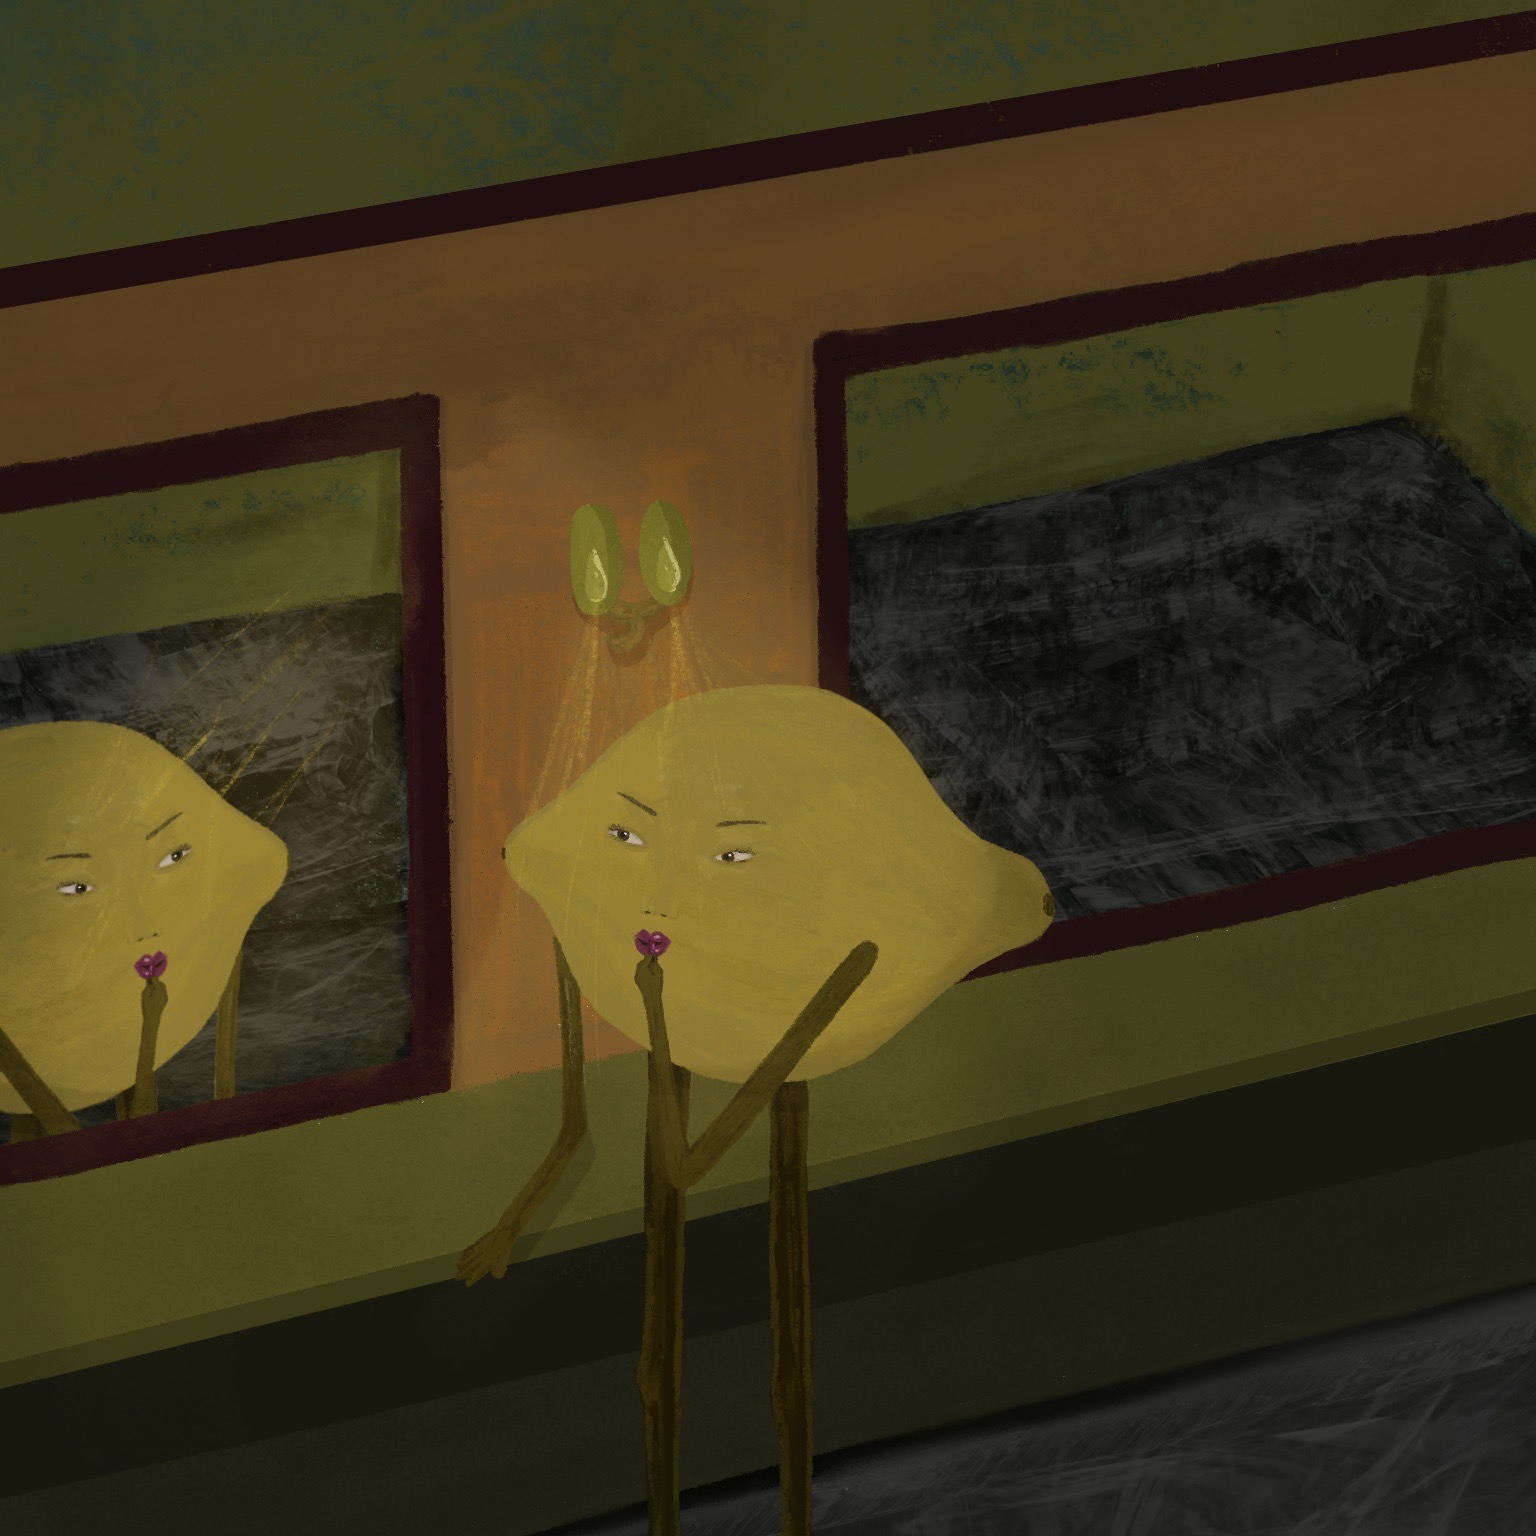
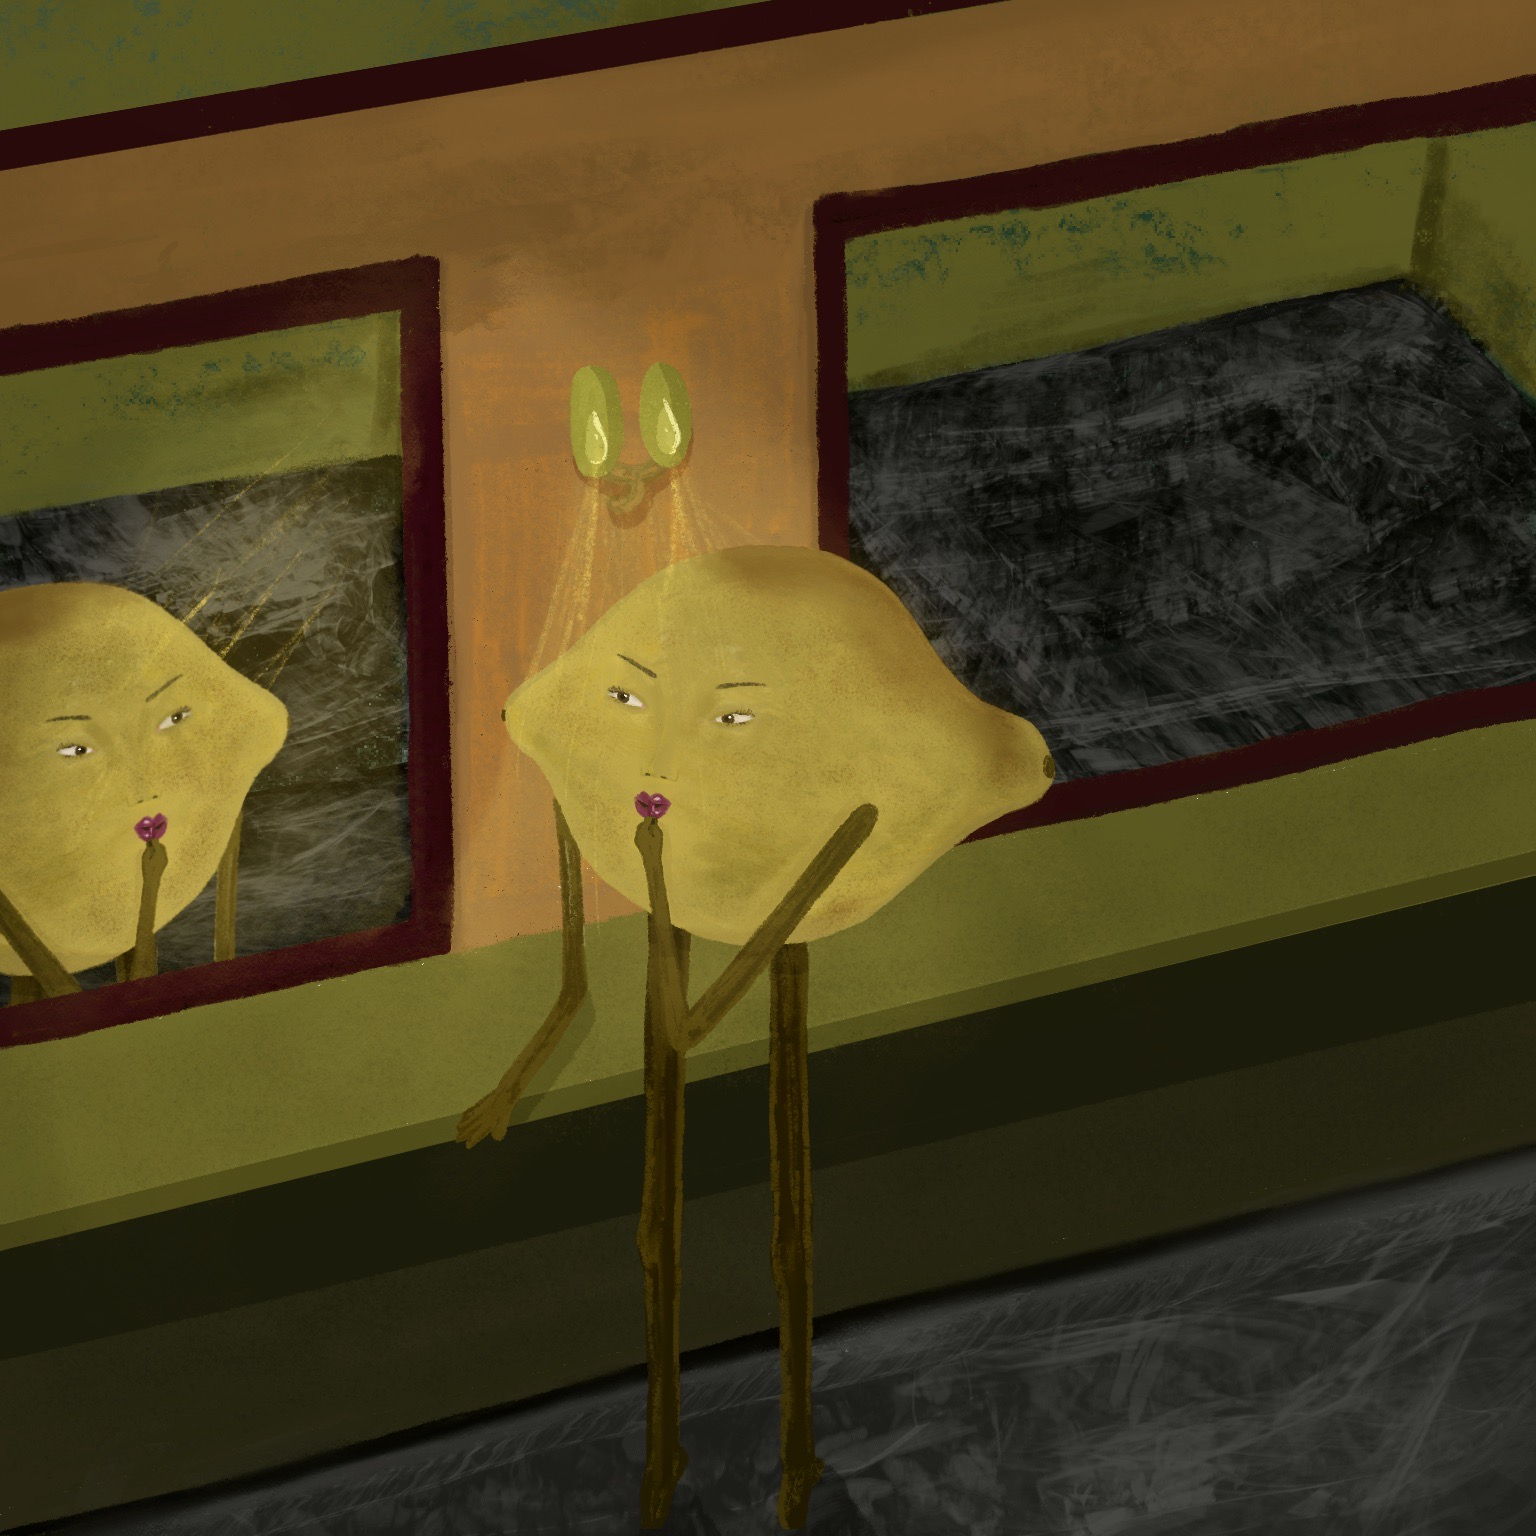
lemon

diff --git a/arts/lemon.html b/arts/lemon.html
@@ -35,7 +35,7 @@
             <h3 id="main">soured vanity</h3>
 
             <div>
-              <img src="../img/digital/lemon.png" class="full_art">
+              <img src="../img/digital/lemon.jpeg" class="full_art">
             </div>
 
             <body>
